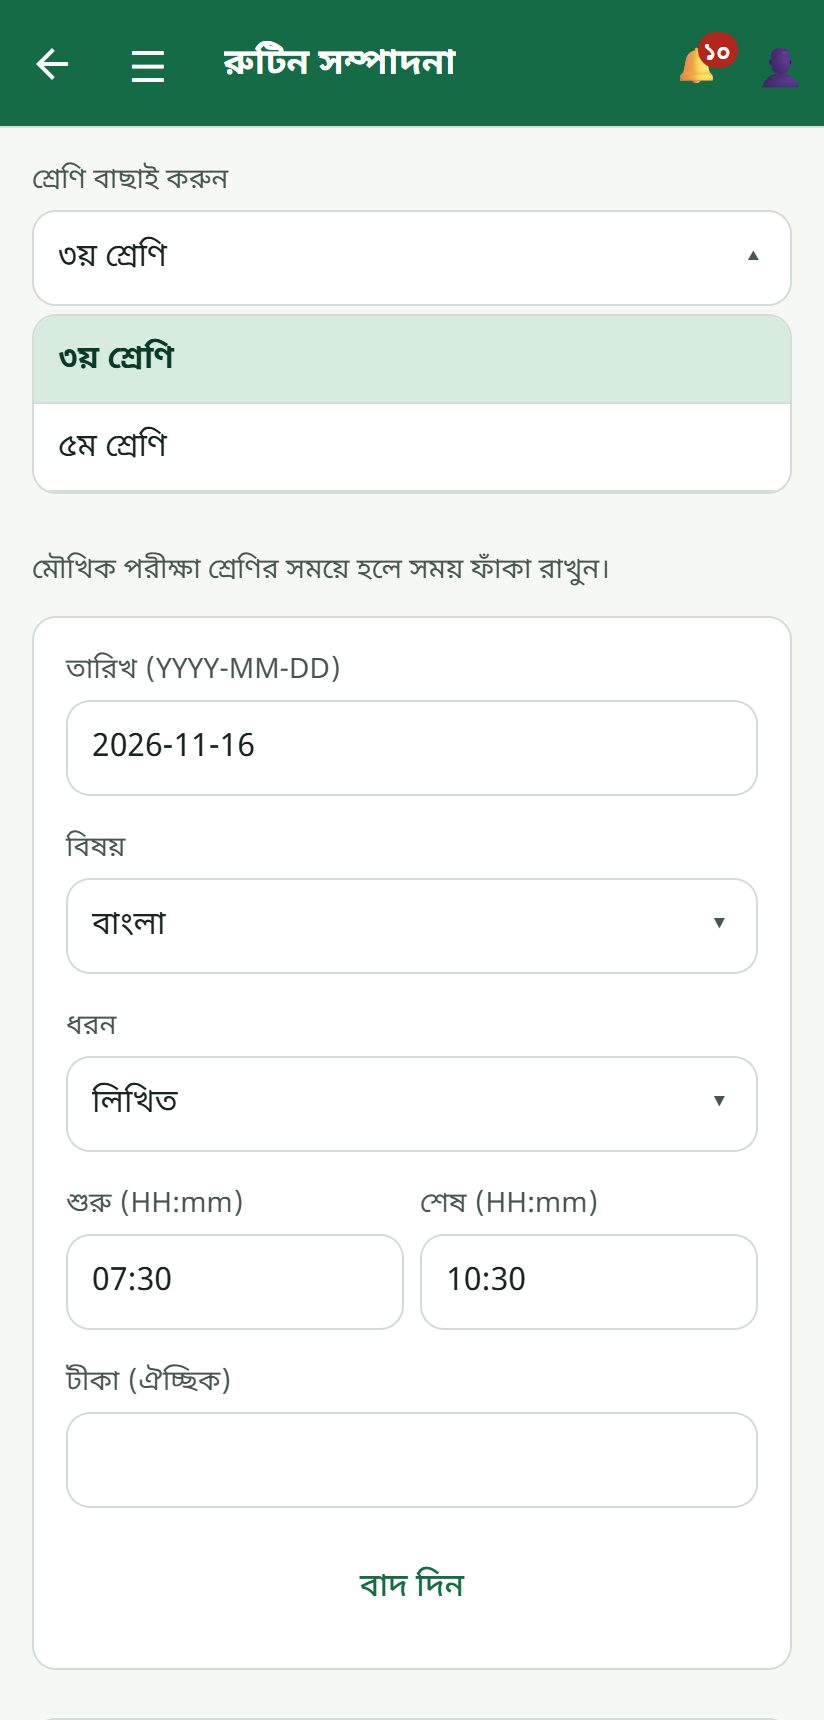
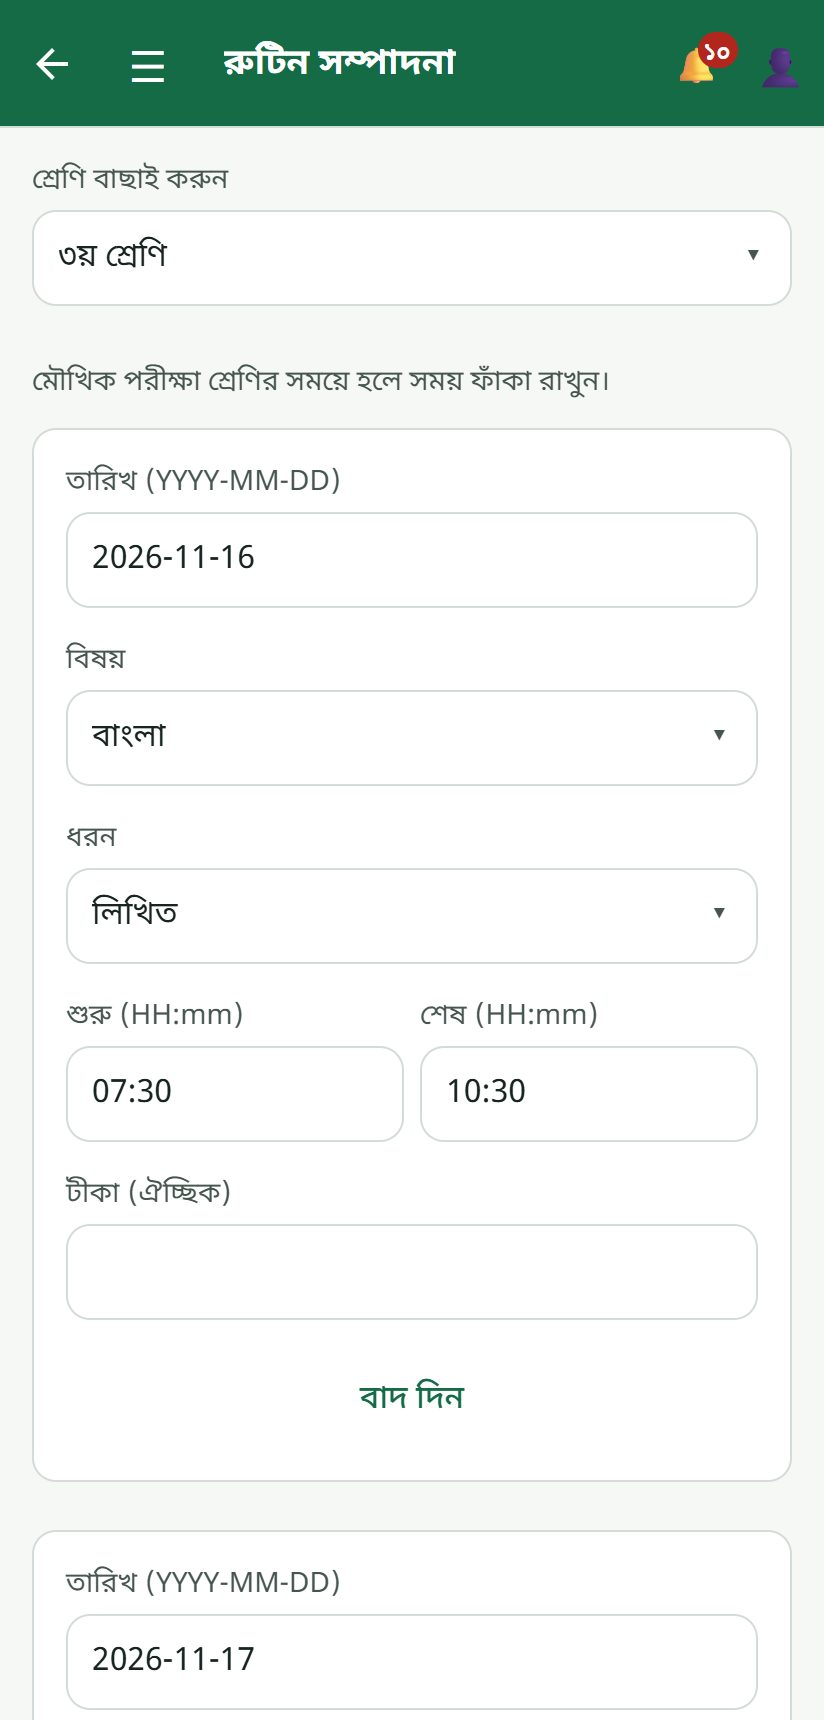
help(guides): exam — area runner spec, exam-routine edit picture, fixture notes

diff --git a/server/scripts/help/fixtures/exam.ts b/server/scripts/help/fixtures/exam.ts
@@ -7,14 +7,16 @@
  *   MONGODB_URI=mongodb://127.0.0.1:<port>/hc npx tsx scripts/help/fixtures/exam.ts [--reset]
  *
  * What it adds, mostly through the app's own services so the screens show real states:
- *   - a routine (teacher: ৩য় বালক গণিত + বাংলা; teacher2: ৩য় বালিকা ইংরেজি + গণিত, ৫ম ক ইংরেজি);
+ *   - a routine (teacher: ৩য় বালক গণিত + বাংলা + বিজ্ঞান; teacher2: ৩য় বালিকা ইংরেজি + গণিত, ৫ম ক ইংরেজি);
  *   - class tests at every step: printed with no marks, marks submitted for approval,
  *     one still waiting to print, and five whose answer scripts sit at each script stage;
  *   - three question-paper requests to the Office (new, in review, final);
- *   - eight published গণিত questions for ৩য় শ্রেণি (the question-set walk builds a set);
+ *   - eight published গণিত questions for ৩য় শ্রেণি and one draft set;
  *   - the 2026 annual exam: syllabus rows at each approval stage, a draft exam routine,
  *     and a draft Quran oral exam with papers and sittings;
- *   - Class 5 scholarship practice: topics, one scored paper and one waiting for marks.
+ *   - Class 5 scholarship practice: topics, two scored papers and one waiting for marks.
+ *   - StoredFile rows standing in for uploads (a local run has no Google Drive): papers,
+ *     scanned pages, and the fixed ids the specs' faked uploads answer with.
  * Fixed ids the spec needs are exported as constants below.
  */
 import mongoose, { Types } from "mongoose";
